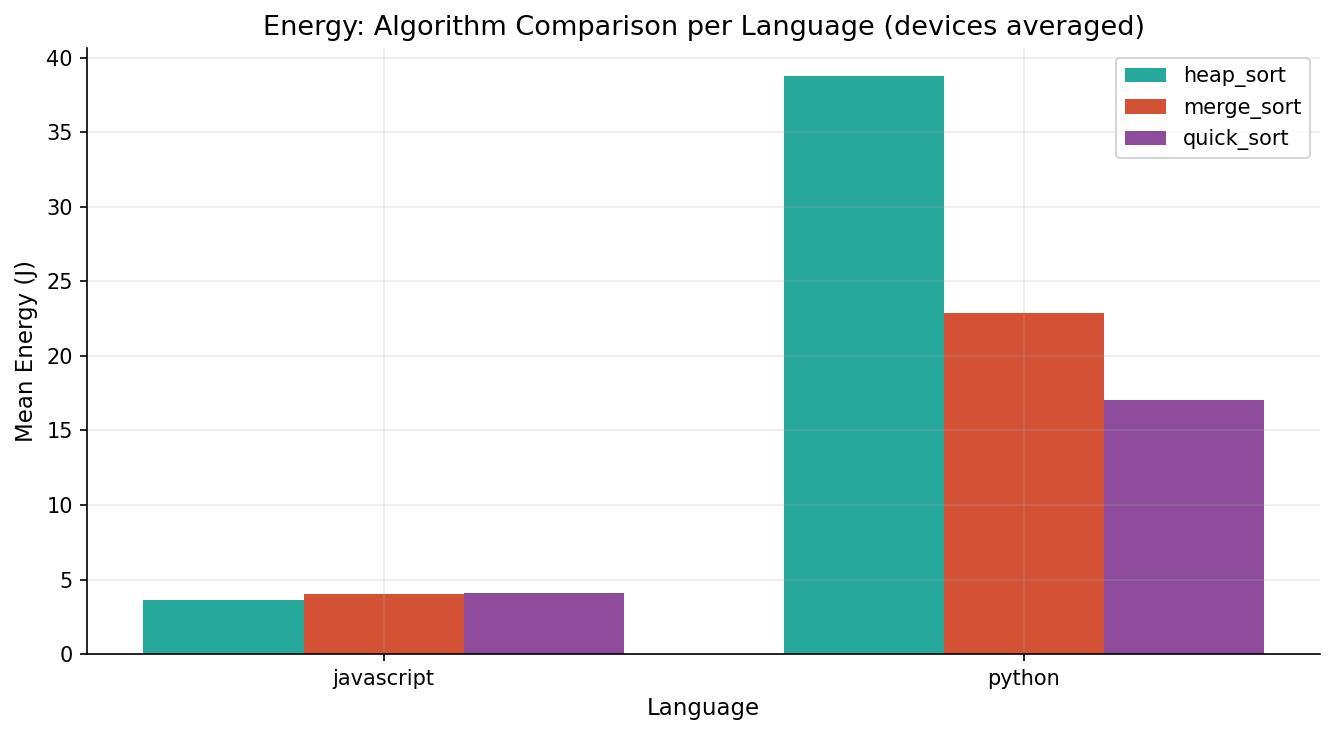
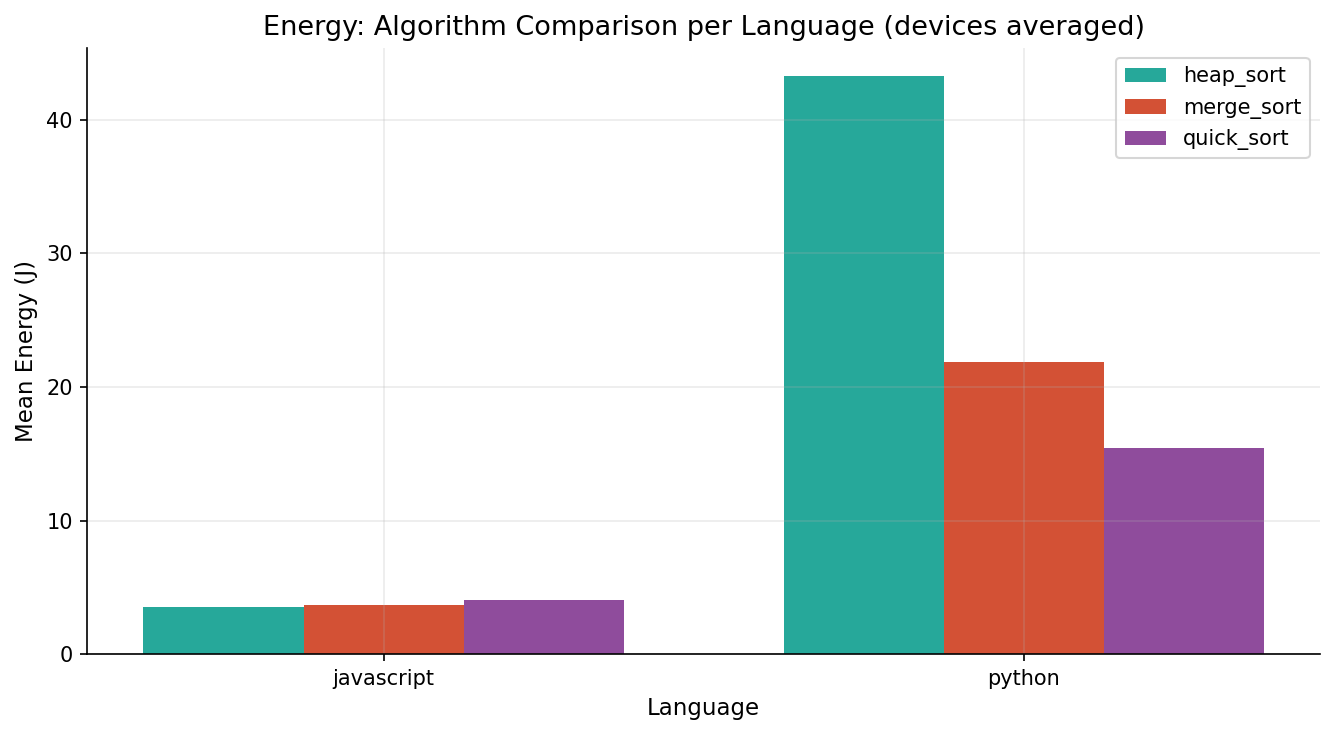
saved statistical results to csv files

diff --git a/visualization_script.py b/visualization_script.py
@@ -18,7 +18,7 @@ LANG_COLOR_LIST = [
     "#EE7733",
 ]
 
-# Algorithms (3 entries)
+# Algorithms
 ALG_COLOR_LIST = [
     "#009988",
     "#CC3311",
@@ -83,7 +83,7 @@ def compute_metrics(csv_file):
 def load_all_results():
     records = []
     for device_folder in os.listdir(BASE_DIR):
-        if not device_folder.startswith("results_MacOS_M1"):
+        if not device_folder.startswith("results_MacOS_"):
             continue
         device = device_folder.replace("results_MacOS_", "")
         device_path = os.path.join(BASE_DIR, device_folder)
@@ -126,38 +126,78 @@ def load_all_results():
 # STATISTICS PRINTING
 # ==========================================
 
-def print_statistics(df):
-    print("\n==============================")
-    print("ENERGY PER LANGUAGE-ALGORITHM-DATASET")
-    print("==============================\n")
-    print(df.groupby(["device", "language", "algorithm", "size"])["energy"]
-          .agg(["mean", "std", "min", "max"]))
+def save_statistics(df):
 
-    print("\n==============================")
-    print("ENERGY PER DATASET SIZE")
-    print("==============================\n")
-    print(df.groupby("size")["energy"].agg(["mean", "std"]))
+    output_dir = "analysis_outputs"
+    os.makedirs(output_dir, exist_ok=True)
 
-    print("\n==============================")
-    print("ENERGY PER LANGUAGE")
-    print("==============================\n")
-    print(df.groupby("language")["energy"].agg(["mean", "std"]))
+    # 1. Energy per Language-Algorithm-Dataset
+    energy_lang_algo_dataset = (
+        df.groupby(["device", "language", "algorithm", "size"])["energy"]
+        .agg(["mean", "std", "min", "max"])
+        .reset_index()
+    )
+    energy_lang_algo_dataset.to_csv(
+        os.path.join(output_dir, "energy_per_language_algorithm_dataset.csv"),
+        index=False
+    )
 
-    print("\n==============================")
-    print("ENERGY PER ALGORITHM")
-    print("==============================\n")
-    print(df.groupby("algorithm")["energy"].agg(["mean", "std"]))
+    # 2. Energy per Dataset Size
+    energy_per_dataset = (
+        df.groupby("size")["energy"]
+        .agg(["mean", "std"])
+        .reset_index()
+    )
+    energy_per_dataset.to_csv(
+        os.path.join(output_dir, "energy_per_dataset_size.csv"),
+        index=False
+    )
 
-    print("\n==============================")
-    print("ENERGY PER DEVICE")
-    print("==============================\n")
-    print(df.groupby("device")["energy"].agg(["mean", "std"]))
+    # 3. Energy per Language
+    energy_per_language = (
+        df.groupby("language")["energy"]
+        .agg(["mean", "std"])
+        .reset_index()
+    )
+    energy_per_language.to_csv(
+        os.path.join(output_dir, "energy_per_language.csv"),
+        index=False
+    )
 
-    print("\n==============================")
-    print("EXECUTION TIME PER LANGUAGE-ALGORITHM-DATASET")
-    print("==============================\n")
-    print(df.groupby(["device", "language", "algorithm", "size"])["time"]
-          .agg(["mean", "std"]))
+    # 4. Energy per Algorithm
+    energy_per_algorithm = (
+        df.groupby("algorithm")["energy"]
+        .agg(["mean", "std"])
+        .reset_index()
+    )
+    energy_per_algorithm.to_csv(
+        os.path.join(output_dir, "energy_per_algorithm.csv"),
+        index=False
+    )
+
+    # 5. Energy per Device
+    energy_per_device = (
+        df.groupby("device")["energy"]
+        .agg(["mean", "std"])
+        .reset_index()
+    )
+    energy_per_device.to_csv(
+        os.path.join(output_dir, "energy_per_device.csv"),
+        index=False
+    )
+
+    # 6. Execution Time per Language-Algorithm-Dataset
+    time_lang_algo_dataset = (
+        df.groupby(["device", "language", "algorithm", "size"])["time"]
+        .agg(["mean", "std"])
+        .reset_index()
+    )
+    time_lang_algo_dataset.to_csv(
+        os.path.join(output_dir, "time_per_language_algorithm_dataset.csv"),
+        index=False
+    )
+
+    print(f"\nStatistical tables saved in '{output_dir}' directory.\n")
 
 
 # ==========================================
@@ -586,7 +626,7 @@ def main():
           f"{df['algorithm'].nunique()} algorithm(s), "
           f"{df['size'].nunique()} dataset size(s).")
 
-    print_statistics(df)
+    save_statistics(df)
 
     print("\nGenerating plots ...")
     plot_energy_vs_size(df)
@@ -631,11 +671,8 @@ def aggregate_devices(df):
     """
     Average energy and time across devices for every
     (language, algorithm, size, run) combination.
-    Returns a new DataFrame without the 'device' column —
+    Returns a new DataFrame without the 'device' column,
     each row is the mean of both devices for that run slot.
-    If the two devices have different numbers of runs, the
-    groupby mean still works correctly (it averages whatever
-    is present).
     """
     agg = (df.groupby(["language", "algorithm", "size", "run"],
                        as_index=False)[["energy", "time"]]
@@ -650,7 +687,6 @@ def aggregate_devices(df):
 # Mean Energy vs Dataset Size
 
 def plot_agg_energy_vs_size(df):
-    
     sizes      = sorted(df["size"].unique())
     languages  = sorted(df["language"].unique())
     algorithms = sorted(df["algorithm"].unique())
